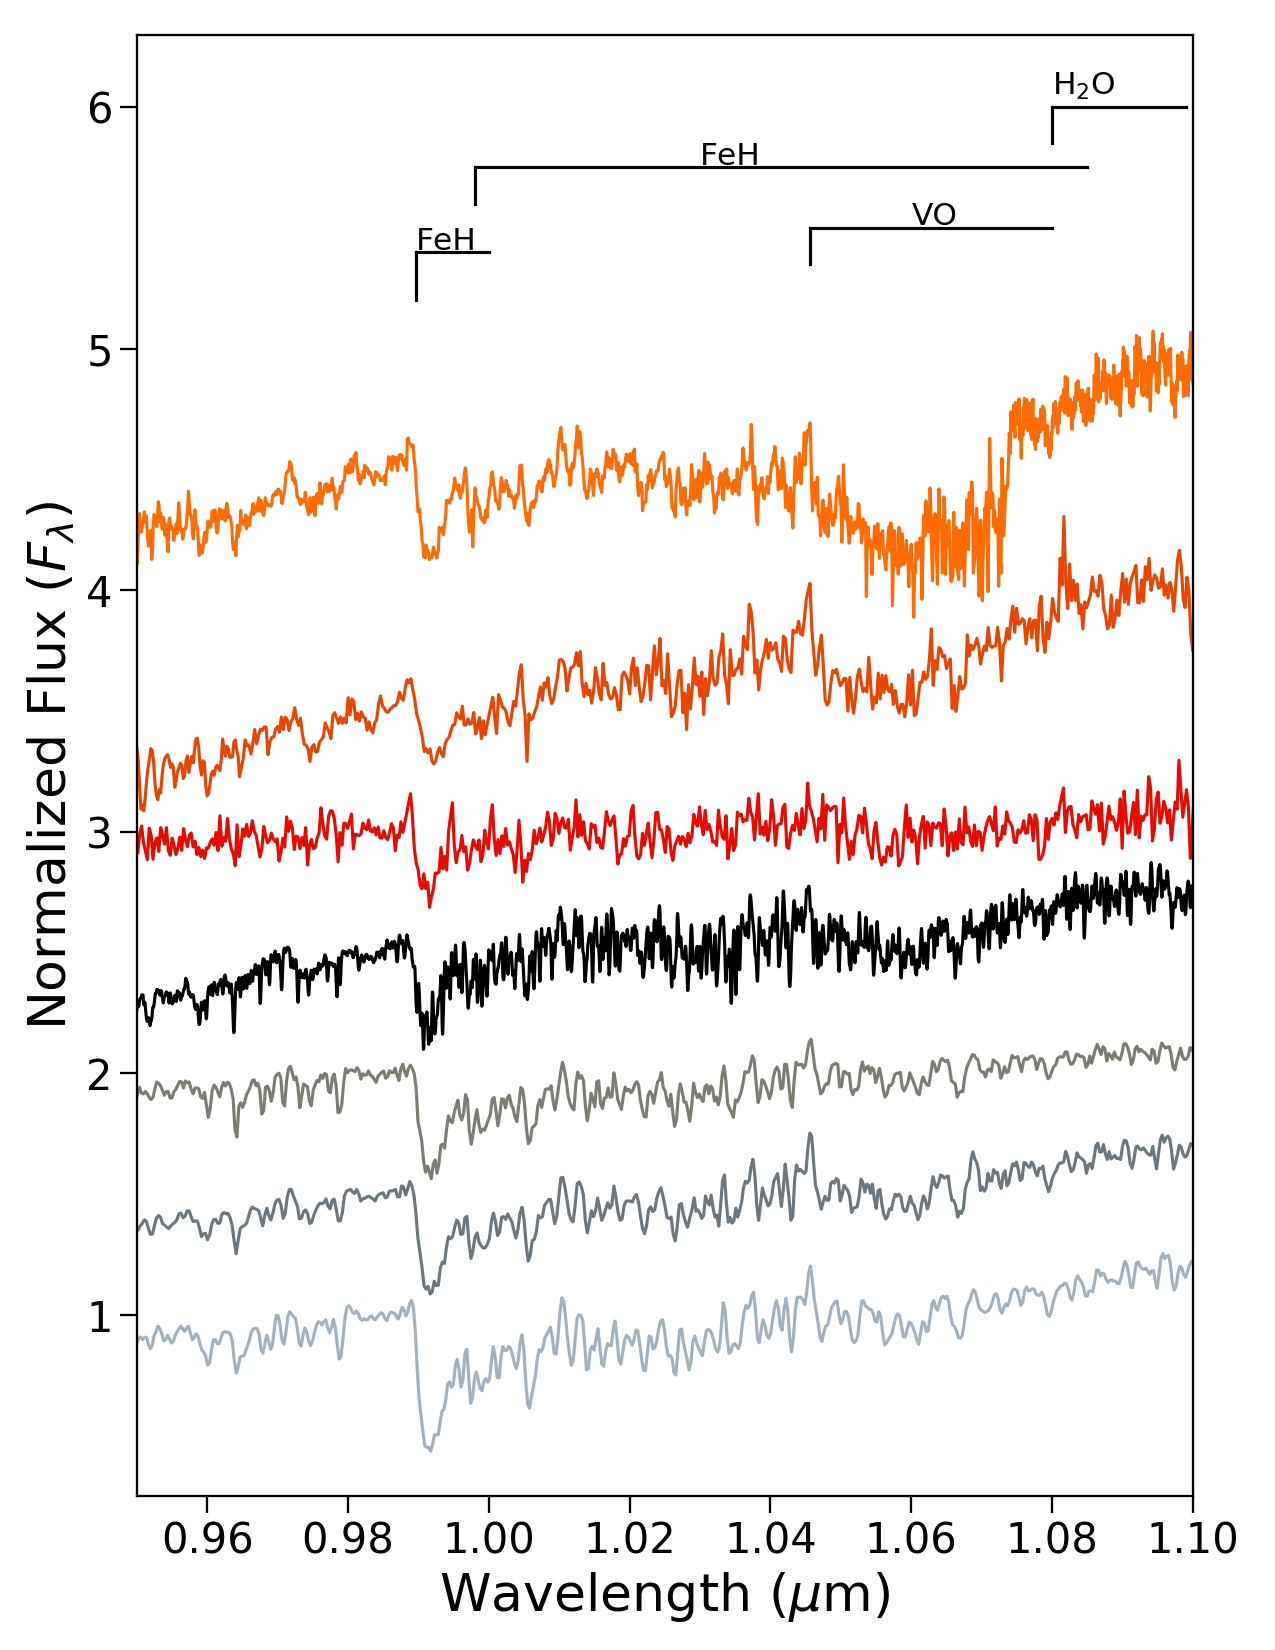
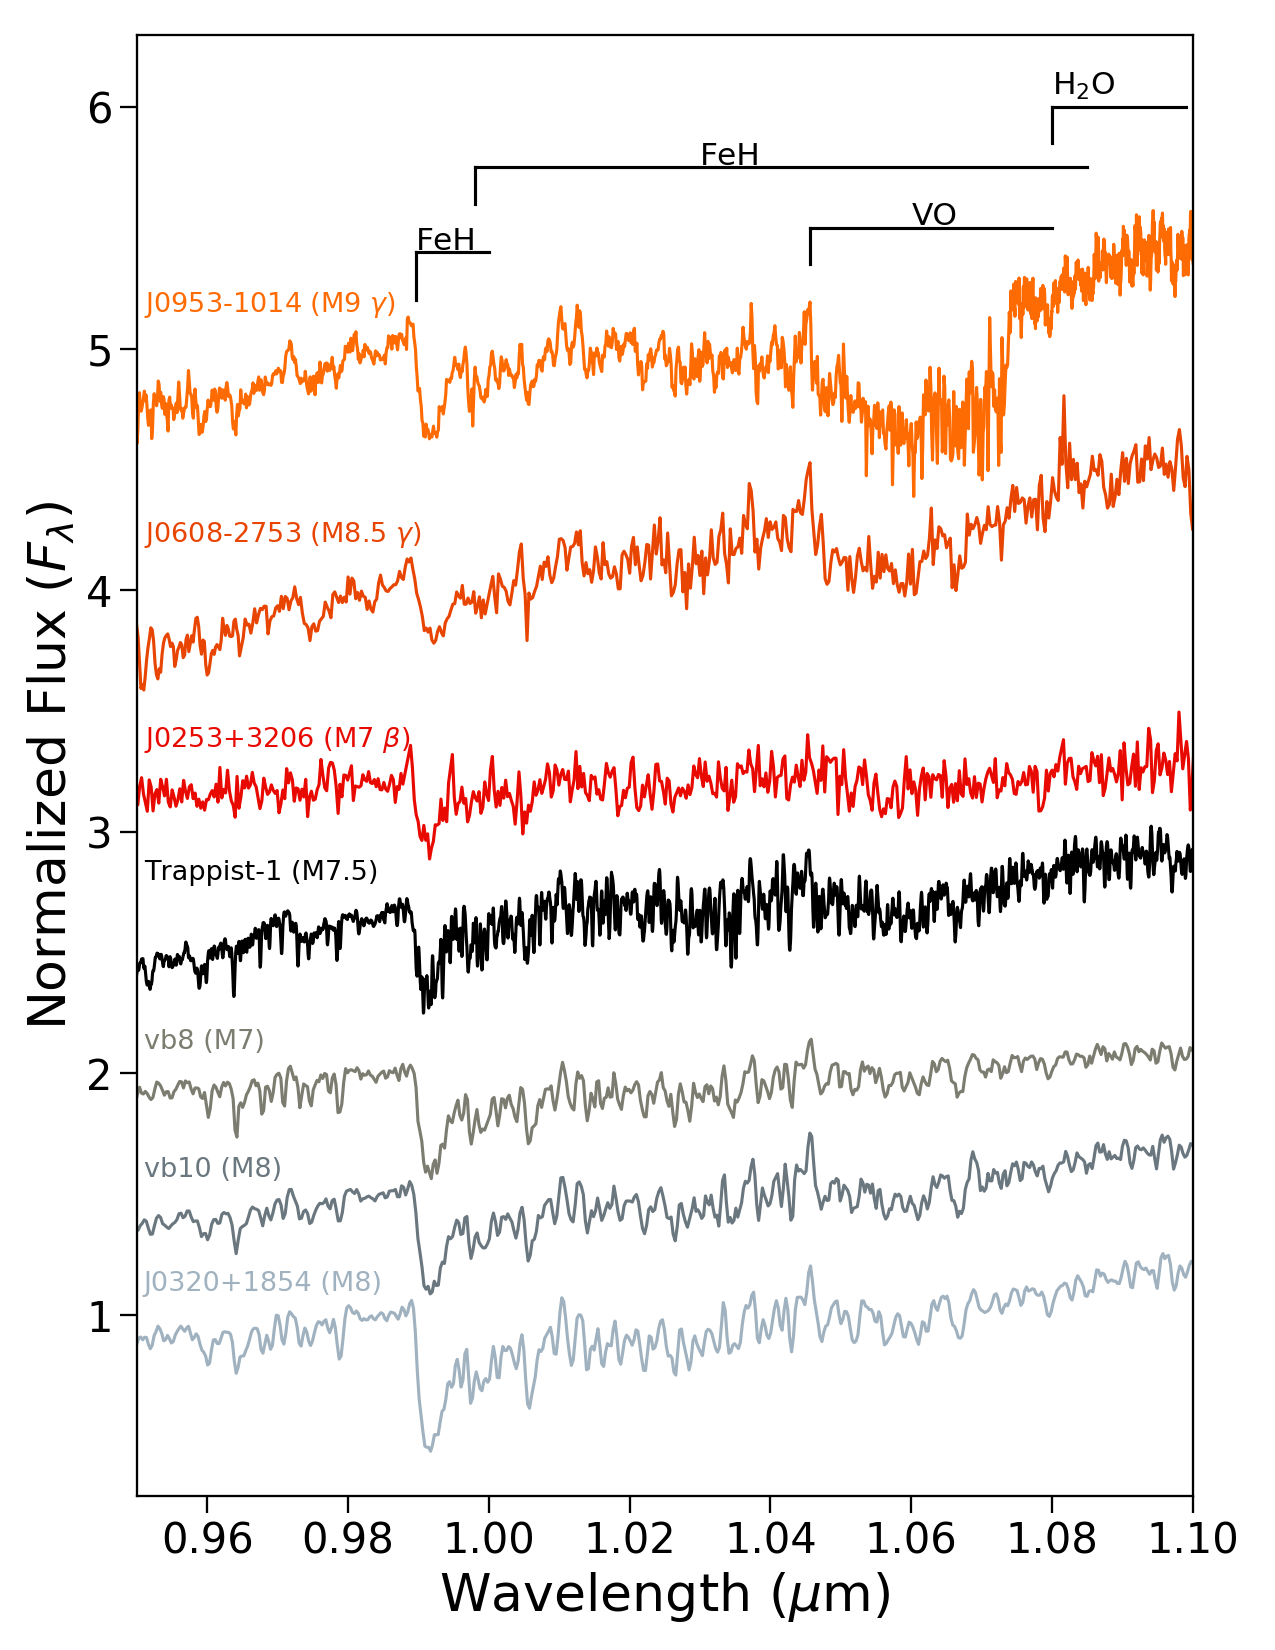
Added names to Y-band plot and updated spectra type for 0253

diff --git a/YbandTeff_youngandfield.py b/YbandTeff_youngandfield.py
@@ -69,15 +69,21 @@ ax1.tick_params(axis='both', labelsize=20, length=8, width=1.1)
 plt.xlabel('Wavelength ($\mu$m)', fontsize=25)
 plt.ylabel('Normalized Flux ($F_\lambda$)', fontsize=25)
 
-# -------- Add data -----------
+# -------- Add data and Label Sources-----------
 ax1.plot(df_0320['w'], norm_df_0320, c='#A0B2BF')
+ax1.annotate('J0320+1854 (M8)', xy=(0.951, 1.1), color='#A0B2BF', fontsize=13)
 ax1.plot(df_vb10['w'], norm_df_vb10 + 0.5, c='#6A777F')
+ax1.annotate('vb10 (M8)', xy=(0.951, 1.57), color='#6A777F', fontsize=13)
 ax1.plot(df_vb8['w'], norm_df_vb8 + 1, c='#7C7D70')
-ax1.plot(df_trap['w'], norm_df_trap + 1.5, c='k')
-ax1.plot(df_0253['w'], norm_df_0253 + 2, c='#E80901')
-ax1.plot(df_0608['w'], norm_df_0608 + 2.5, c='#E84502')
-ax1.plot(df_0953['w'], norm_df_0953 + 3.5, c='#FF6B03')
-
+ax1.annotate('vb8 (M7)', xy=(0.951, 2.1), color='#7C7D70', fontsize=13)
+ax1.plot(df_trap['w'], norm_df_trap + 1.65, c='k')
+ax1.annotate('Trappist-1 (M7.5)', xy=(0.951, 2.8), color='k', fontsize=13)
+ax1.plot(df_0253['w'], norm_df_0253 + 2.2, c='#E80901')
+ax1.annotate('J0253+3206 (M7 $\\beta$)', xy=(0.951, 3.35), color='#E80901', fontsize=13)
+ax1.plot(df_0608['w'], norm_df_0608 + 3, c='#E84502')
+ax1.annotate('J0608-2753 (M8.5 $\gamma$)', xy=(0.951, 4.2), color='#E84502', fontsize=13)
+ax1.plot(df_0953['w'], norm_df_0953 + 4, c='#FF6B03')
+ax1.annotate('J0953-1014 (M9 $\gamma$)', xy=(0.951, 5.15), color='#FF6B03', fontsize=13)
 
 # --- To make lines for features ---------
 FeH1 = pd.DataFrame()

diff --git a/Trappist_youngcomparison.py b/Trappist_youngcomparison.py
@@ -87,7 +87,7 @@ plt.ylabel('Flux ($erg\ s^{-1} cm^{-2} A^{-1}$)', fontsize=25)
 # ------ Labeling Objects --------
 ax1.annotate('Trappist-1 (M7.5), $T_\mathrm{eff}: 2582 \pm 34$ K', xy=(2.9, 8*10**(-18)), color='k', fontsize=15)
 ax1.annotate('J1247-3816 (M9 $\gamma$), $T_\mathrm{eff}: 2627 \pm 291$ K', xy=(2.65, 4*10**(-15)), color='#9B0132', fontsize=15)
-ax1.annotate('J0253+3206 (M9), $T_\mathrm{eff}: 2581 \pm 265$ K', xy=(2.75, 3*10**(-14)), color='#E80901', fontsize=15)
+ax1.annotate('J0253+3206 (M7$\\beta$), $T_\mathrm{eff}: 2581 \pm 265$ K', xy=(2.58, 3*10**(-14)), color='#E80901', fontsize=15)
 ax1.annotate('J0436-4114 (M8 $\\beta$), $T_\mathrm{eff}: 2557 \pm 257$ K', xy=(2.64,  7*10**(-15)), color='#FF2E06', fontsize=15)
 ax1.annotate('J0608-2753 (M8.5 $\gamma$), $T_\mathrm{eff}: 2471 \pm 255$ K', xy=(2.35, 1.8*10**(-14)), color='#E84502', fontsize=15)
 ax1.annotate('J0953-1014 (M9 $\gamma$), $T_\mathrm{eff}: 2427 \pm 254$ K', xy=(2.64, 1.2*10**(-14)), color='#FF6B03', fontsize=15)
